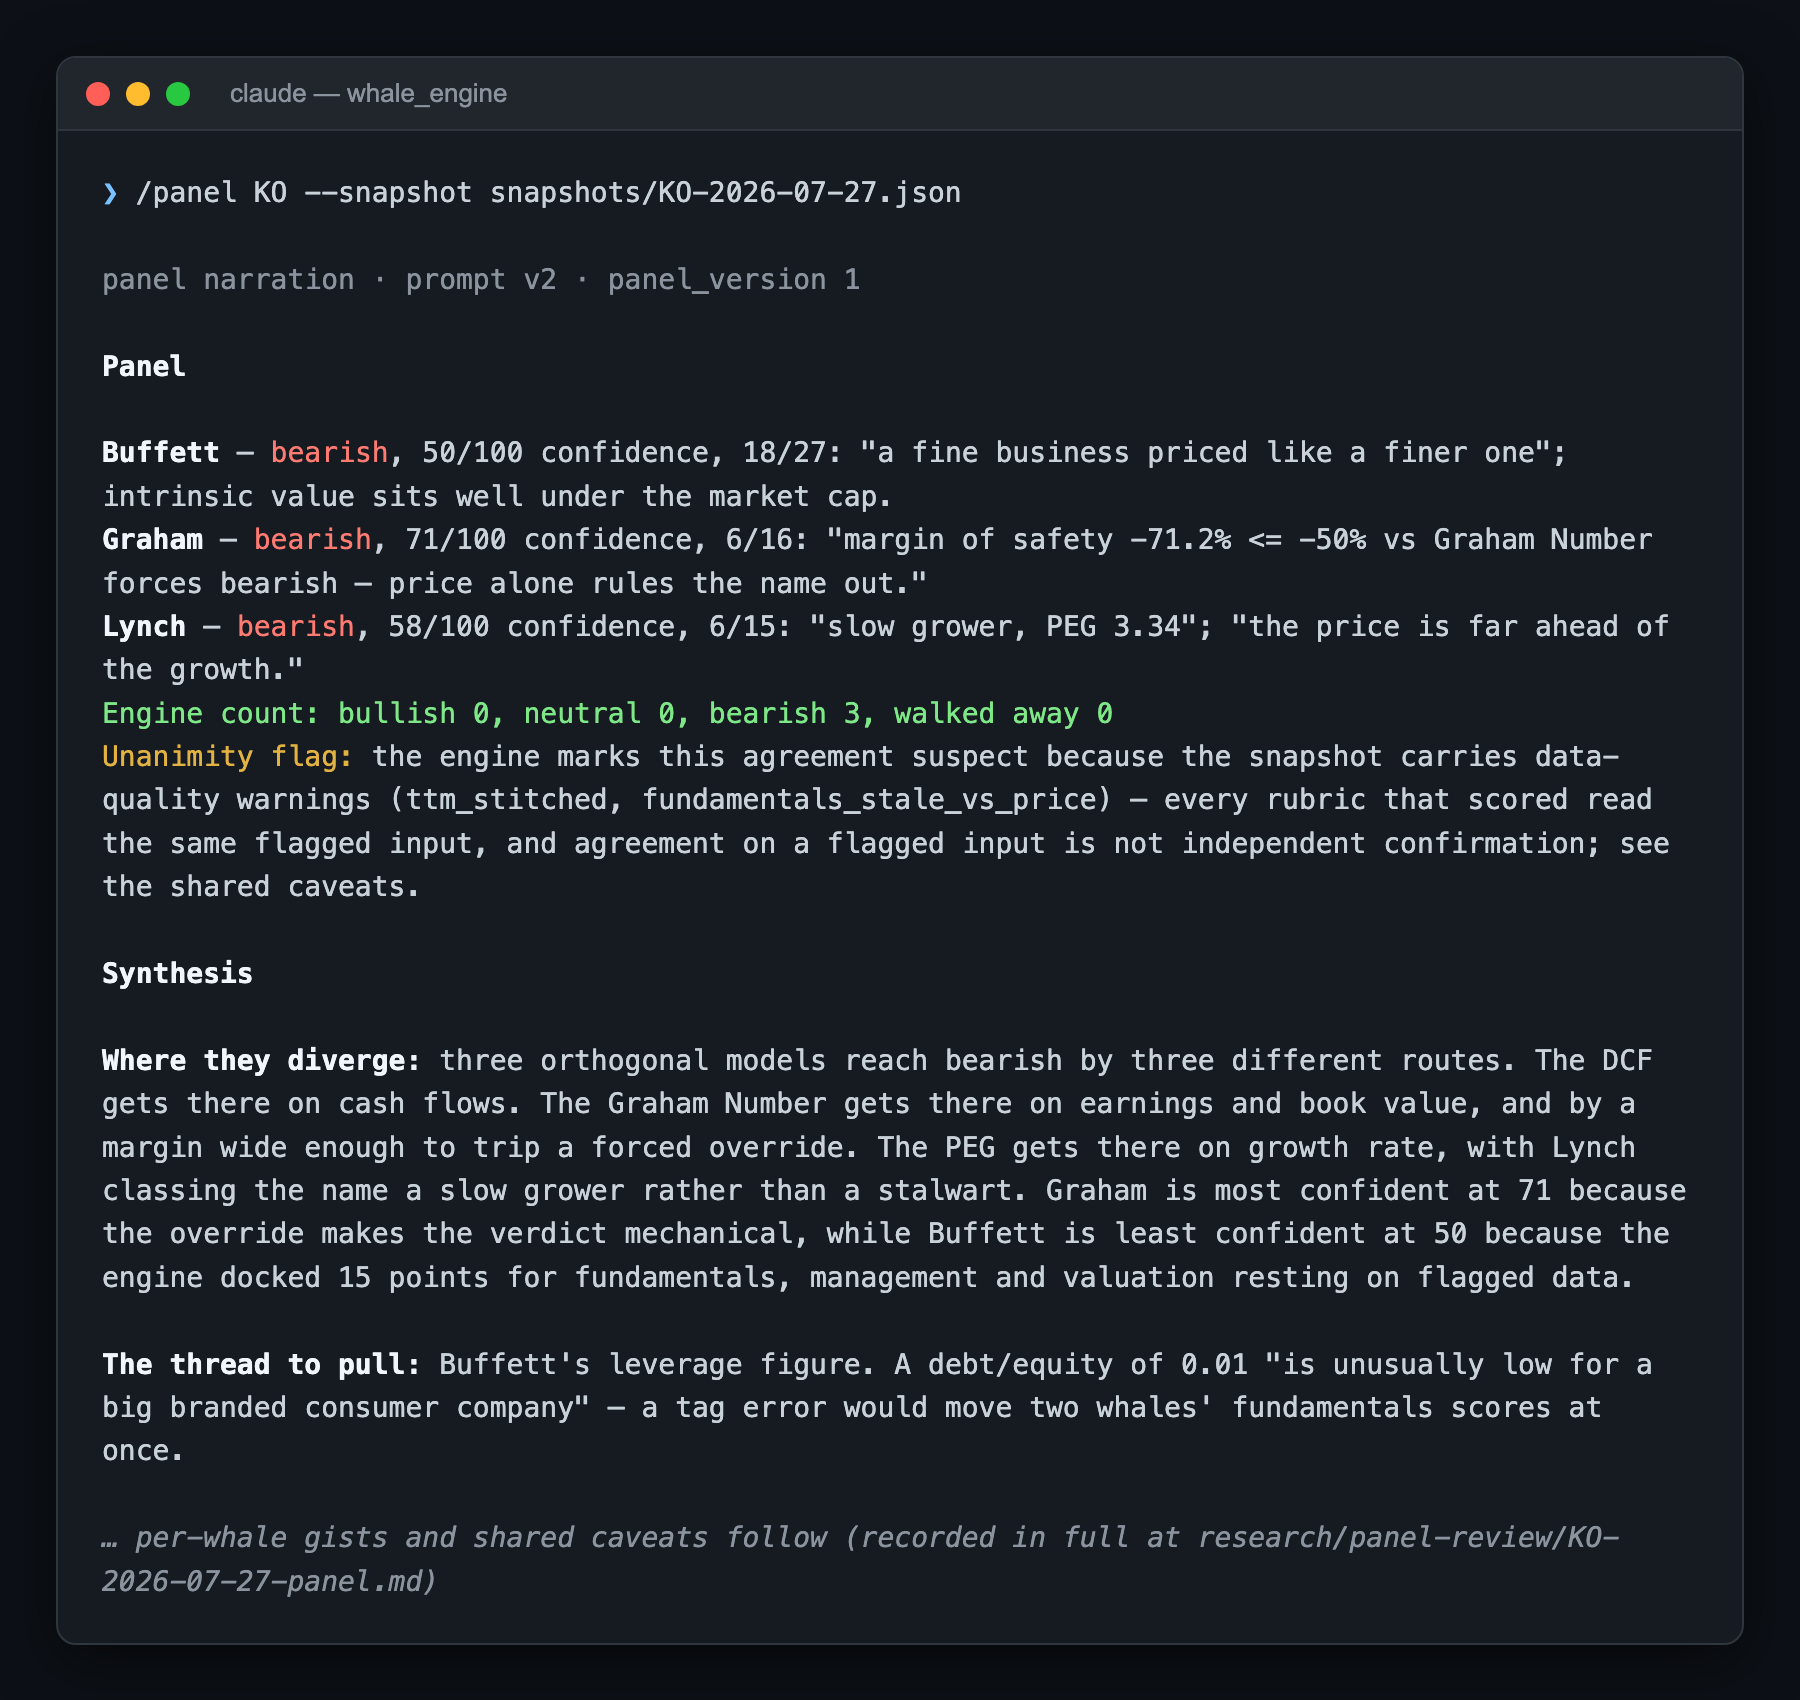
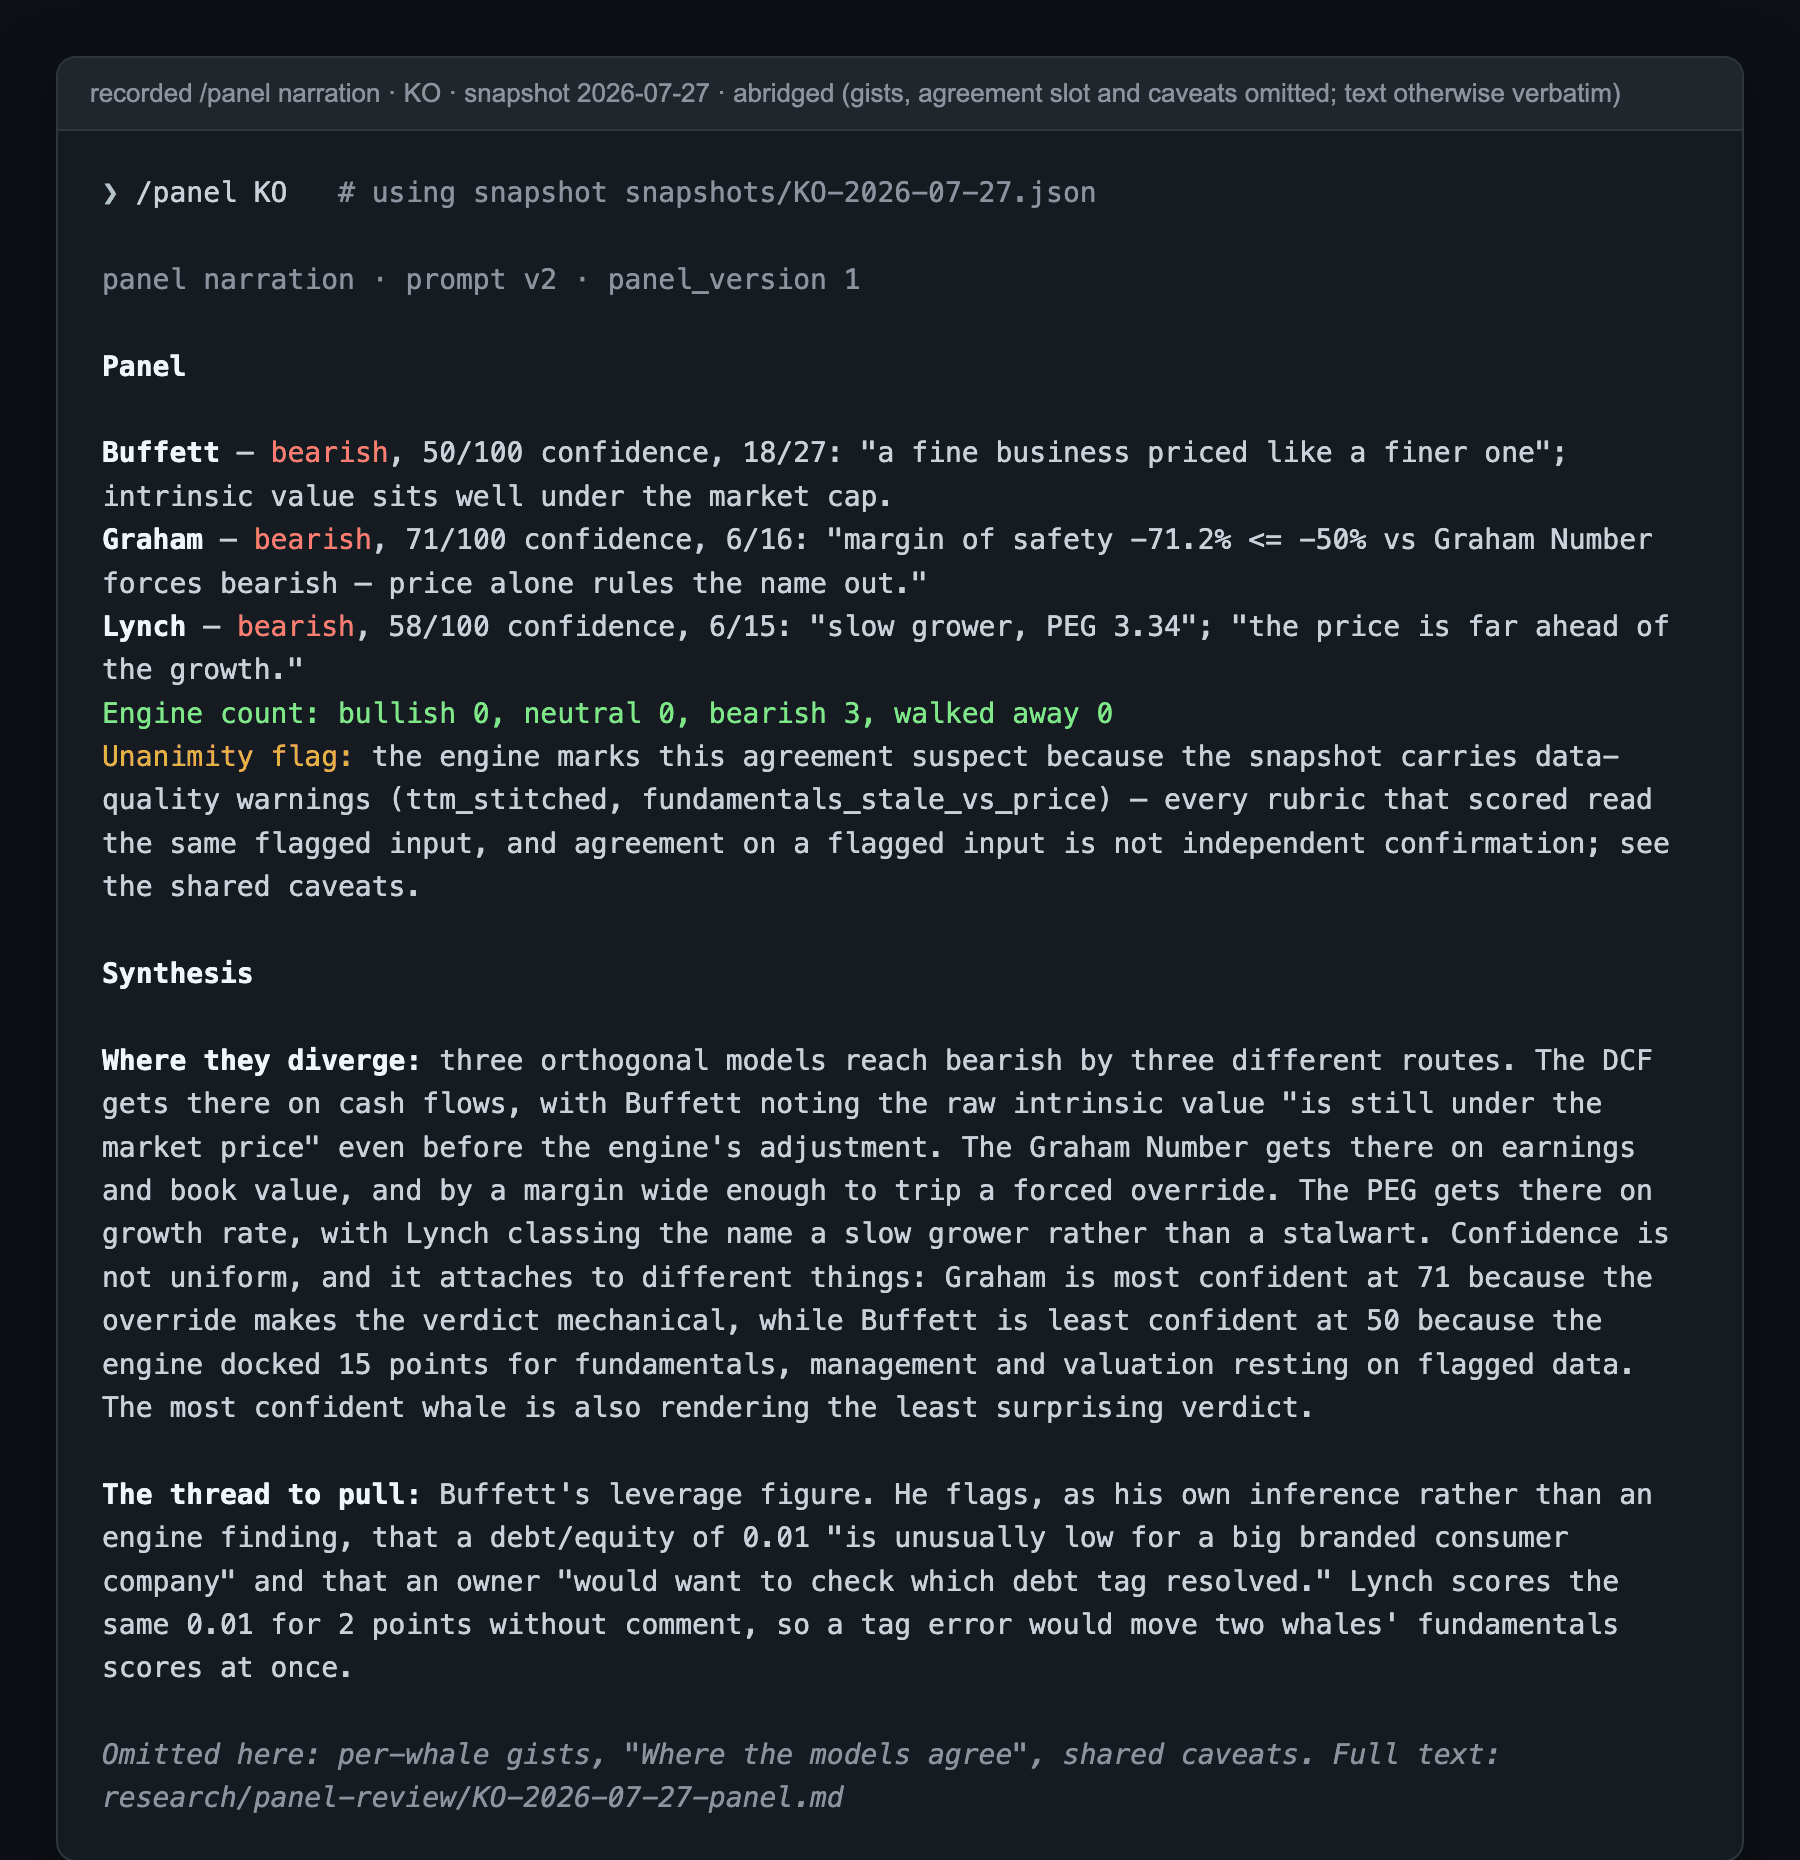
Review fixes: honest card caption, matching snapshot, robust installer skill
- Card re-typeset with the recorded sentences unabridged; header and README
  caption now say "abridged, text verbatim" instead of claiming the whole.
- JSON excerpt switched to KO-2026-07-27 so Buffett 50/100, 18/27 and the
  $353.88B market cap match the picture above it. PNG cropped and
  palette-quantised (346 KB -> 181 KB), rendered at width 900.
- SKILL.md: WHALE_HOME re-read in every block (shell state does not persist
  between agent commands), EDGAR_IDENTITY passed inline, same-day snapshot
  guard before fetch, diagnose pinned to provenance.snapshot, warning codes
  deduplicated, unanimity sentence pinned verbatim, fetch vs panel failure
  rules no longer conflict, network disclosure includes Cboe/yfinance,
  Greenblatt scoped to single-whale, version: 1.
- agensi/README.md: drops the "can never drift" claim, adds tag-pinning note
  and a republish checklist. .gitattributes marks PNG binary.

diff --git a/agensi/whale-panel/SKILL.md b/agensi/whale-panel/SKILL.md
@@ -1,9 +1,10 @@
 ---
 name: whale-panel
-description: Ask "what would Buffett, Graham or Lynch say about this stock?" and get three independent, deterministic verdicts from SEC filings — never an averaged score. Installs the open-source Whale Panel engine (Python, uv) from GitHub, pulls the company's EDGAR filings, scores them under versioned per-investor rubrics, and reports where the models agree and disagree. Use when a user asks for a Buffett/Graham/Lynch/Greenblatt-style read on a ticker, a value-investing diagnosis, or a "whale panel" on a stock.
+description: Ask "what would Buffett, Graham or Lynch say about this stock?" and get three independent, deterministic verdicts scored from SEC filings — never an averaged score. Installs the open-source Whale Panel engine (Python, uv) from GitHub, pulls the company's EDGAR filings, scores them under versioned per-investor rubrics, and reports where the models agree and disagree. Greenblatt is available as a single-whale diagnosis. Use when a user asks for a Buffett-, Graham- or Lynch-style read on a ticker, a value-investing diagnosis, or a "whale panel" on a stock.
+version: 1
 ---
 
-# Whale Panel — installer skill
+# Whale Panel — install and run
 
 Whale Panel is an MIT-licensed engine (https://github.com/philipbergman6-glitch/agents).
 The design rule: **the engine computes, you narrate.** Every number you show the
@@ -12,7 +13,15 @@ presentation, or average the whales into one verdict.
 
 This skill installs the engine once, then runs it. Tell the user up front:
 "This clones a public GitHub repo and installs a Python package with uv. It
-fetches SEC EDGAR filings over the network. Continue?" Stop if they say no.
+fetches SEC EDGAR filings and a delayed market quote (Cboe, falling back to
+yfinance) over the network. Continue?" Stop if they say no.
+
+Shell state does not survive between your commands. Every block below that
+needs the install location re-reads it the same way:
+
+```bash
+WHALE_HOME="${WHALE_HOME:-$HOME/whale-panel}"
+```
 
 ## 1. Prerequisites (check, don't assume)
 
@@ -21,11 +30,11 @@ Run each and report what is missing. Install nothing silently.
 ```bash
 git --version
 uv --version          # https://docs.astral.sh/uv/getting-started/installation/
-python3 --version     # uv will fetch 3.11+ itself if needed
+python3 --version     # uv fetches 3.11+ itself if the system lacks it
 ```
 
 If `uv` is missing, show the user the one-line installer from the uv docs and
-ask them to run it (or ask permission to run it). Do not pip-install the engine;
+ask them to run it, or ask permission to run it. Do not pip-install the engine;
 it is a uv-managed package with a lockfile.
 
 ## 2. Install (first run only)
@@ -40,55 +49,59 @@ uv run whale --help | head -5
 ```
 
 If `uv sync` fails, print the error verbatim and stop. Do not patch the repo.
+The clone ships pinned snapshots under `snapshots/`; they are months old and
+exist for reproducibility, not as a substitute for a fresh fetch.
 
 ## 3. EDGAR identity (required by the SEC, not by us)
 
-The SEC requires a name and email on every EDGAR request. Check:
-
-```bash
-echo "${EDGAR_IDENTITY:-unset}"
-```
-
-If unset, **ask the user** for their name and email and export it for this
-session only: `export EDGAR_IDENTITY="Jane Doe jane@example.com"`. Never invent
-one, never reuse one from another user, never write it to a file without asking.
+The SEC requires a name and email on every EDGAR request. If `EDGAR_IDENTITY`
+is not already set in the environment, **ask the user** for their name and email
+and pass it inline on the fetch command in step 4, as
+`EDGAR_IDENTITY="Jane Doe jane@example.com"`. Never invent one, never reuse one
+from another user, never write it to a file unless the user asks you to.
 
 ## 4. Run the panel
 
 ```bash
+WHALE_HOME="${WHALE_HOME:-$HOME/whale-panel}"
 cd "$WHALE_HOME/whale_engine"
-uv run whale fetch TICKER                      # network: EDGAR filings + market cap -> snapshots/TICKER-<date>.json
-uv run whale panel TICKER                      # offline: all three whales over that snapshot
+ls "snapshots/TICKER-$(date +%F).json" 2>/dev/null \
+  || EDGAR_IDENTITY="Name email@example.com" uv run whale fetch TICKER   # network
+uv run whale panel TICKER                                                 # offline, newest snapshot
 ```
 
-`whale panel` prints JSON. Keep it; it is your only source of figures. Then, for
-each whale the user cares about, the single-whale detail:
+`whale panel` prints JSON. Keep it. Its `provenance.snapshot` is the file every
+diagnose below must read, so all figures describe the same filing date:
 
 ```bash
-uv run whale diagnose TICKER --whale buffett   # also: graham, lynch, greenblatt
+uv run whale diagnose TICKER --whale buffett --snapshot <provenance.snapshot>   # also: graham, lynch, greenblatt
 ```
 
 If `fetch` fails, report the error and the newest snapshot date present in
-`snapshots/`, and proceed only if the user accepts a stale snapshot. Never mix
-snapshot dates across whales.
+`snapshots/` for that ticker, and proceed only if the user accepts a stale
+snapshot. Pass that file explicitly as `--snapshot` to both `panel` and
+`diagnose`. Never mix snapshot dates across whales.
 
 ## 5. Report (what you may and may not say)
 
-Print, in this order:
+The panel JSON and the diagnose JSON are your only sources of figures. Print,
+in this order:
 
-1. **Panel** — one line per whale from `whales.<name>`:
-   `**Buffett** — <signal>, <confidence>/100 confidence, <score.total>/<score.max_possible>`.
-   A whale with `walked_away: true` is reported as `walks away: <reason>`. That
-   is a position, not an error.
+1. **Panel** — one line per whale from `whales.<name>`, in JSON order:
+   `**Buffett** — <signal>, <confidence>/100 confidence, <score.total>/<score.max_possible>: <one key driver quoted from that whale's diagnose details>`.
+   A whale with `walked_away: true` is reported as
+   `**Lynch** — walks away: <reason field, verbatim>`. That is a position, not
+   an error; the panel proceeds over the whales that scored and says so.
 2. The engine's `engine_count` string, verbatim, on its own line.
-3. If `unanimity_suspect` is true: say the engine marks the agreement suspect
-   because every rubric read the same flagged input, and list the
-   `data_quality_warnings[].code` values.
+3. If `unanimity_suspect` is true, this sentence, with the distinct
+   `data_quality_warnings[].code` values deduplicated in JSON order:
+   `Unanimity flag: the engine marks this agreement suspect because the snapshot carries data-quality warnings (<codes>) — every rubric that scored read the same flagged input, and agreement on a flagged input is not independent confirmation; see the caveats.`
 4. **Where the models diverge** — attribute every difference to the *model*
-   (DCF vs Graham Number vs PEG), quoting the `details` strings from the
-   diagnose JSON. Name instruments, not counts.
-5. **Caveats** — snapshot path and `snapshot_fetched_at` from `provenance`,
-   each data-quality warning in plain English, and this closing line verbatim:
+   (DCF vs Graham Number vs PEG), quoting `details` strings from the diagnose
+   JSON. Name instruments, never counts of whales.
+5. **Caveats** — `provenance.snapshot` and `provenance.snapshot_fetched_at`;
+   one plain-English line per distinct warning code with the figure the engine
+   attached to it (for example `lag_days`); then this closing line verbatim:
    *These are mechanical rubrics plus narration, not investment advice.*
 
 Hard rules:
@@ -96,14 +109,15 @@ Hard rules:
 - No "2 of 3", no "on balance", no "the panel leans". The only tally is the
   engine's count line.
 - Dollar figures may be rounded to human scale ($14,740,350,000 → $14.74B).
-  Ratios, scores, percentages stay exactly as printed.
-- If the engine exits non-zero, print its stderr and stop. No partial panel.
+  Ratios, scores and percentages stay exactly as printed.
+- If `panel` or `diagnose` exits non-zero, print its stderr and stop. No partial
+  panel. (A failed `fetch` is handled in step 4.)
 
 ## 6. Going further
 
-Users who run Claude Code can `cd "$WHALE_HOME"` and open a session there: the
-repo ships `/buffett`, `/graham`, `/lynch`, `/greenblatt`, `/panel` and
-`/portfolio` skills with full persona narration and a narration-contract test
-suite. Everything above is the same engine; the repo adds the voices.
+Users who run Claude Code can open a session in `$WHALE_HOME`: the repo ships
+`/buffett`, `/graham`, `/lynch`, `/greenblatt`, `/panel` and `/portfolio`
+skills with full persona narration and a narration-contract test suite. Same
+engine; the repo adds the voices.
 
 Source, rubrics, tests and design records: https://github.com/philipbergman6-glitch/agents

diff --git a/README.md b/README.md
@@ -16,28 +16,30 @@ suite checks the narrations against the numbers.
 
 ## What it looks like
 
-`/panel KO` in Claude Code, against a pinned snapshot. Three rubrics, three
+A recorded `/panel KO` run against a pinned snapshot. Three rubrics, three
 routes to the same verdict, and an engine flag saying why that agreement is
 weaker than it looks:
 
-![Whale Panel narrating KO: Buffett, Graham and Lynch each bearish by a different model, engine count 0/0/3, unanimity flagged for stitched TTM data](docs/panel-KO.png)
+<img src="docs/panel-KO.png" width="900" alt="Terminal card of a recorded /panel KO narration: three bearish verdicts by three different models, the engine count line, and the unanimity flag">
 
-<sub>Recorded narration, reproduced verbatim from `research/panel-review/KO-2026-07-27-panel.md`.</sub>
+<sub>Typeset from `research/panel-review/KO-2026-07-27-panel.md`, abridged:
+per-whale gists, the agreement slot and the shared caveats are omitted; the
+text shown is verbatim and the numbers are unchanged.</sub>
 
-Under the narration is plain JSON:
+Under the narration is plain JSON. The Buffett row above comes from this
+(committed snapshot, offline, deterministic; excerpt):
 
-`uv run whale diagnose KO --whale buffett --snapshot snapshots/KO-2026-08-04.json`
-(committed snapshot, offline, deterministic — excerpt):
+`uv run whale diagnose KO --whale buffett --snapshot snapshots/KO-2026-07-27.json`
 
 ```json
 {
   "ticker": "KO",
   "rubric_version": 3,
   "signal": "bearish",
-  "confidence": 55,
-  "confidence_detail": {"base": 70, "data_quality_penalty": 15,
+  "confidence": 50,
+  "confidence_detail": {"base": 60, "data_quality_penalty": 15,
                         "affected_dimensions": ["fundamentals", "management", "valuation"]},
-  "score": {"total": 16, "max": 27, "max_possible": 27, "pct": 0.5926},
+  "score": {"total": 18, "max": 27, "max_possible": 27, "pct": 0.6667},
   "dimensions": {
     "moat": {"score": 3, "max": 5, "details": [
       "ROE > 15% in 9/10 periods (avg 36.8%) ✓ (+2)",
@@ -46,16 +48,16 @@ Under the narration is plain JSON:
       "Performance stability 79.8% > 70% ✓ (+1)"]}
   },
   "valuation": {"owner_earnings": 14740350000.0, "intrinsic_value": 193960263457.88647,
-                "market_cap": 373713622827.48, "margin_of_safety": -0.481,
+                "market_cap": 353879178880.5, "margin_of_safety": -0.4519,
                 "dcf_stages": {"raw_growth_cagr": 0.0761952516499298, "stage1_growth": 0.05333667615495086,
                                "growth_clamped": false, "discount_rate": 0.1}},
-  "data_quality": {"warnings": [{"code": "ttm_stitched", "dimensions_affected": ["valuation"]},
+  "data_quality": {"warnings": [{"code": "ttm_stitched", "dimensions_affected": ["fundamentals", "valuation"]},
                                 {"code": "fundamentals_stale_vs_price"}]}
 }
 ```
 
-The Buffett persona's narration of a comparable diagnosis, from a recorded
-panel review (`research/panel-review/CCL-2026-07-29-panel.md`):
+A single whale's full voice, by contrast with the panel's compressed rows
+(Buffett on CCL, from `research/panel-review/CCL-2026-07-29-panel.md`):
 
 > **Buffett** — bearish, 53/100 confidence, 7/22 (pricing power excluded): moat 0/5 across the board; margin of safety −6.35%.
 >

diff --git a/agensi/README.md b/agensi/README.md
@@ -1,9 +1,15 @@
 # Marketplace packaging
 
-`whale-panel/` is the self-contained installer skill published (free) on
-Agensi.io. It is deliberately a thin pointer: it clones this repo, runs `uv
-sync`, and drives the `whale` CLI. The rubrics, personas and tests live only
-here, so the marketplace copy can never drift from the engine.
+`whale-panel/` is the self-contained skill to be published, free, on
+Agensi.io. It is deliberately a thin pointer: it clones this repo, runs
+`uv sync --frozen`, and drives the `whale` CLI. The rubrics, personas and
+tests live only here; the marketplace copy carries the install steps plus a
+copy of the panel's report rules, which the checklist below re-syncs.
 
-Publishing checklist: bump nothing in the engine; re-read the SKILL.md against
-`.claude/skills/panel/SKILL.md` for changed command names; submit the folder.
+The clone tracks `main` at install time and is never updated, so a CLI rename
+breaks installed copies silently. Pin `git clone` to a tag once one exists.
+
+Republish checklist (no engine change is needed): diff the report rules in
+`whale-panel/SKILL.md` against `.claude/skills/panel/SKILL.md`; re-run the
+cold install (fresh clone, `uv sync --frozen`, `uv run whale panel KO`
+offline); bump `version` in the frontmatter; submit the folder.
